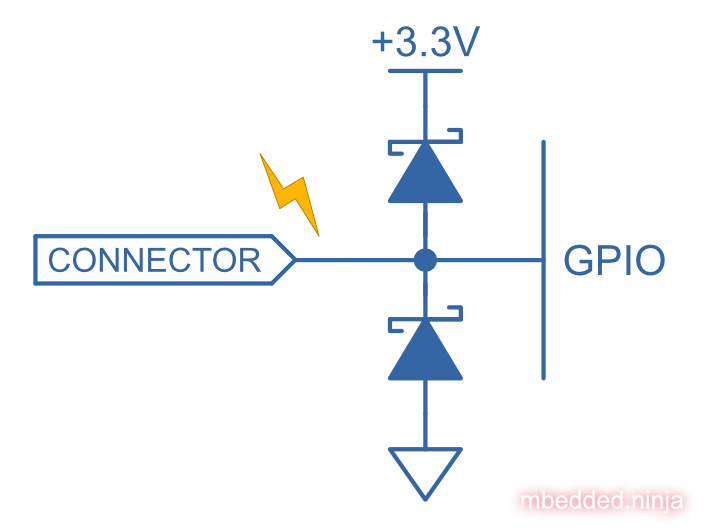
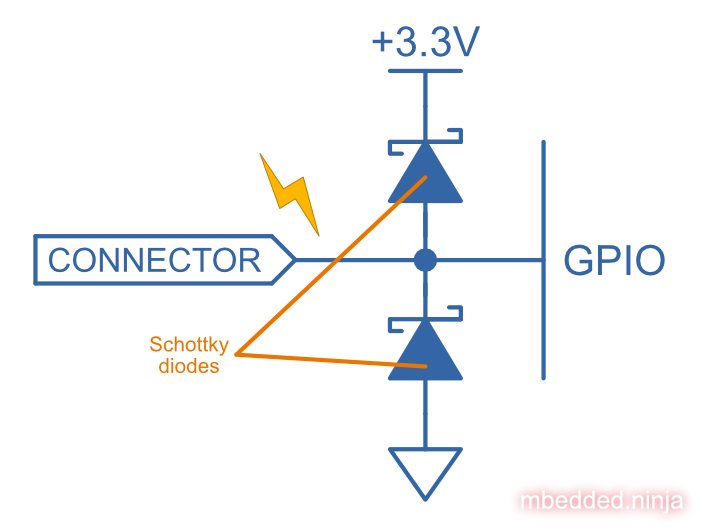
Added more info/schematics on protecting IO lines from ESD.

diff --git a/content/electronics/circuit-design/esd-protection/protecting-io-lines-from-esd/_index.md b/content/electronics/circuit-design/esd-protection/protecting-io-lines-from-esd/_index.md
@@ -11,15 +11,19 @@ type: page
 
 ## Overview
 
-This page explains some of the ways you can go about protecting IO lines on a PCB from ESD events. This page assumes a basic scenario, you are wanting to protect an IO line that comes from an external connector and then connects to a GPIO pin on a MCU. However, the examples also apply to pretty much any IO line that connects to some sort of sensitive IC circuitry, e.g. enable pins on PSU ICs, communication lines, e.t.c.
+This page explains some of the ways you can go about protecting IO lines on a PCB from ESD events. This page assumes a basic scenario, you are wanting to protect an IO line that comes from an external connector and then connects to a GPIO pin on a MCU. The MCU is running from a +3.3V rail voltage (`\(V_{CC}\)`). However, the examples also apply to pretty much any IO line that connects to some sort of sensitive IC circuitry, e.g. enable pins on PSU ICs, communication lines, e.t.c.
 
 ## A Simple Resistor
 
-One of the simplest ways of protecting an I/O line from ESD is to add a series resistor.
+One of the simplest ways of protecting an I/O line from ESD is to add a series resistor, as shown in the schematic below:
 
 {{% img src="io-protection-with-resistor.png" width="600px" caption="Simple IO protection with a series resistor." %}}
 
 One thing to be aware of is that this will limit the maximum frequency that can be used through this IO line (more so that other ESD techniques, such as steering diodes as discussed below). The series resistor will form a low-pass RC filter with the parasitic capacitance on the line after the resistor. For short PCB traces, most of this parasitic capacitance will be from the input capacitance of the GPIO pin on the MCU. Something in the region of `\(10pF\)` can be expected, which with a `\(1k\Omega\)` resistor will form a low-pass filter with a cut-off frequency of `\(16MHz\)`.
+
+* Simple.
+* Not terribly effective.
+* Not suitable for high-frequency signals.
 
 ## Resistor With Capacitor
 
@@ -27,9 +31,30 @@ To improve on the simple series resistor, a capacitor can be added to further im
 
 {{% img src="io-protection-with-resistor-capacitor.png" width="600px" caption="Simple IO protection with a series resistor." %}}
 
+* Still pretty simple.
+* Better than just a resistor.
+* Not suitable for medium to high-frequency signals (even worse than just a resistor at attenuating high-frequency signals!)
+
+## TVS Diode
+
+Another popular way of protecting an IO line from ESD is to connect a TVS diode to it. TVS diodes are designed to be operated whilst reverse biased and have preset reverse standoff voltages, above which point they begin to conduct and absorb energy. They are designed to be robust and able to absorb energy (which they dissipate as heat) from ESD events.
+
+* Simple
+
+{{% img src="io-protection-with-tvs-diode.png" width="600px" caption="ESD protection with a TVS diode. The standoff voltage is normally set to the maximum working voltage (i.e. +3.3V in this case) and will begin to conduct significantly as the voltage rises above this level." %}}
+
+The above schematic is a unidirectional TVS diode, which will clamp a positive ESD event as the voltage starts to rise above `\(+3.3V\)`, and will clamp a negative-going ESD event when the voltage gets to around `\({-}0.7V\)` and forward biases the diode.
+
+{{% warning %}}
+TVS diodes do not have a sharp turn-on point, and the voltage can rise significantly above the standoff voltage.
+{{% /warning %}}
+
 ## Steering Diodes
 
-Arguably a better option than just a simple resistor and capacitor is the use of steering diodes. Steering diodes are connected between the I/O line and two voltage rails, typically `\(V_{CC}\)` and `\(GND\)`. You normally want to use Schottky diodes, as they have a lower forward voltage drop of around 0.3V compared to the standard PN junction diode forward voltage drop of 0.7V. This means your more robust external steering diodes will conduct and shunt more of the ESD energy away before the internal ESD protection diodes connected to the GPIO port in the MCU port do. 
+Steering diodes are connected between the I/O line and two voltage rails, typically `\(V_{CC}\)` and `\(GND\)`. You normally want to use Schottky diodes, as they have a lower forward voltage drop of around 0.3V compared to the standard PN junction diode forward voltage drop of 0.7V. This means your more robust external steering diodes will conduct and shunt more of the ESD energy away before the internal ESD protection diodes connected to the GPIO port in the MCU port do.
+
+* Sharper turn on than a TVS diode.
+* Dump energy into rails, which may be a bad thing.
 
 {{% img src="io-protection-with-steering-diodes-to-rail.png" width="600px" caption="Using steering diodes (Schottky diodes connected as shown) to protect an IO line from ESD." %}}
 
@@ -46,7 +71,7 @@ You start to run into problems if the ESD energy is high, and the ESD event cont
 
 To add further protection, a TVS diode can be added to the voltage rail, to help clamp the voltage if it starts rising, as shown in the schematic below:
 
-TODO: Add schematic.
+{{% img src="io-protection-with-steering-diodes-to-rail-and-tvs.png" width="700px" caption="Protecting an IO line from ESD with both steering diodes and a TVS diode." %}}
 
 Some ESD diode arrays incorporate steering diodes and a TVS diode to do just this. For example, the Bourns CDDFN10-0506N features 6 steering diode pairs connected to a single TVS. It is designed for high-speed signals and presents an input capacitance of only 0.25-0.35pF to the signal line, as well as "feed-through" routing design to minimize impedance changes[^bib-bourns-cddfn10-0506n-ds].
 
